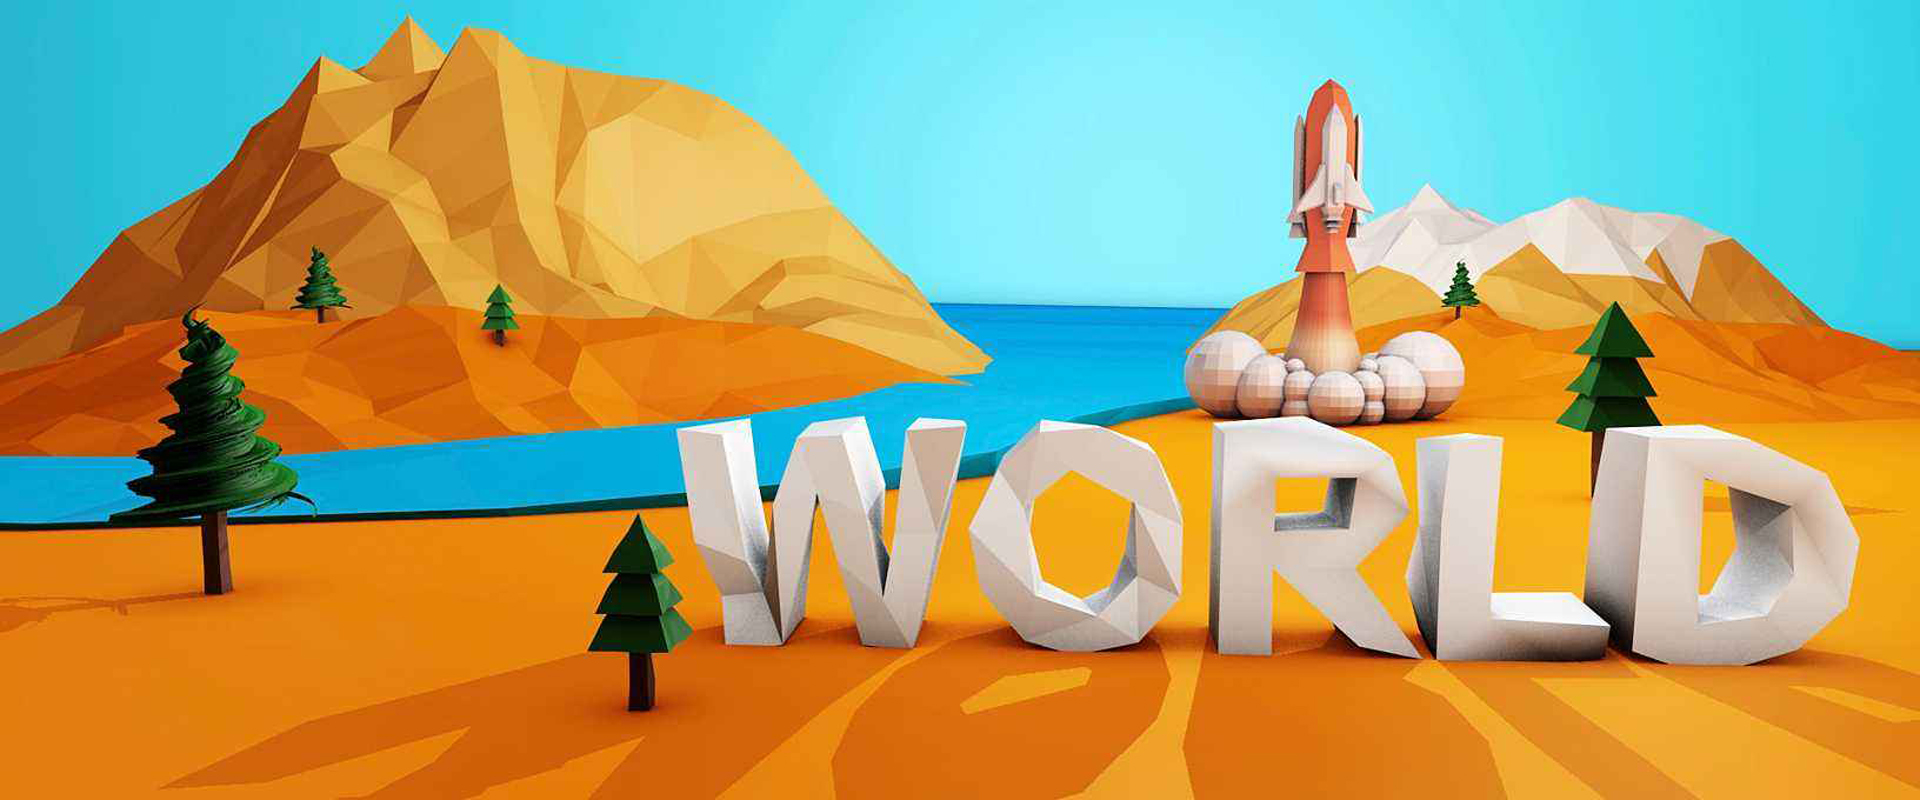
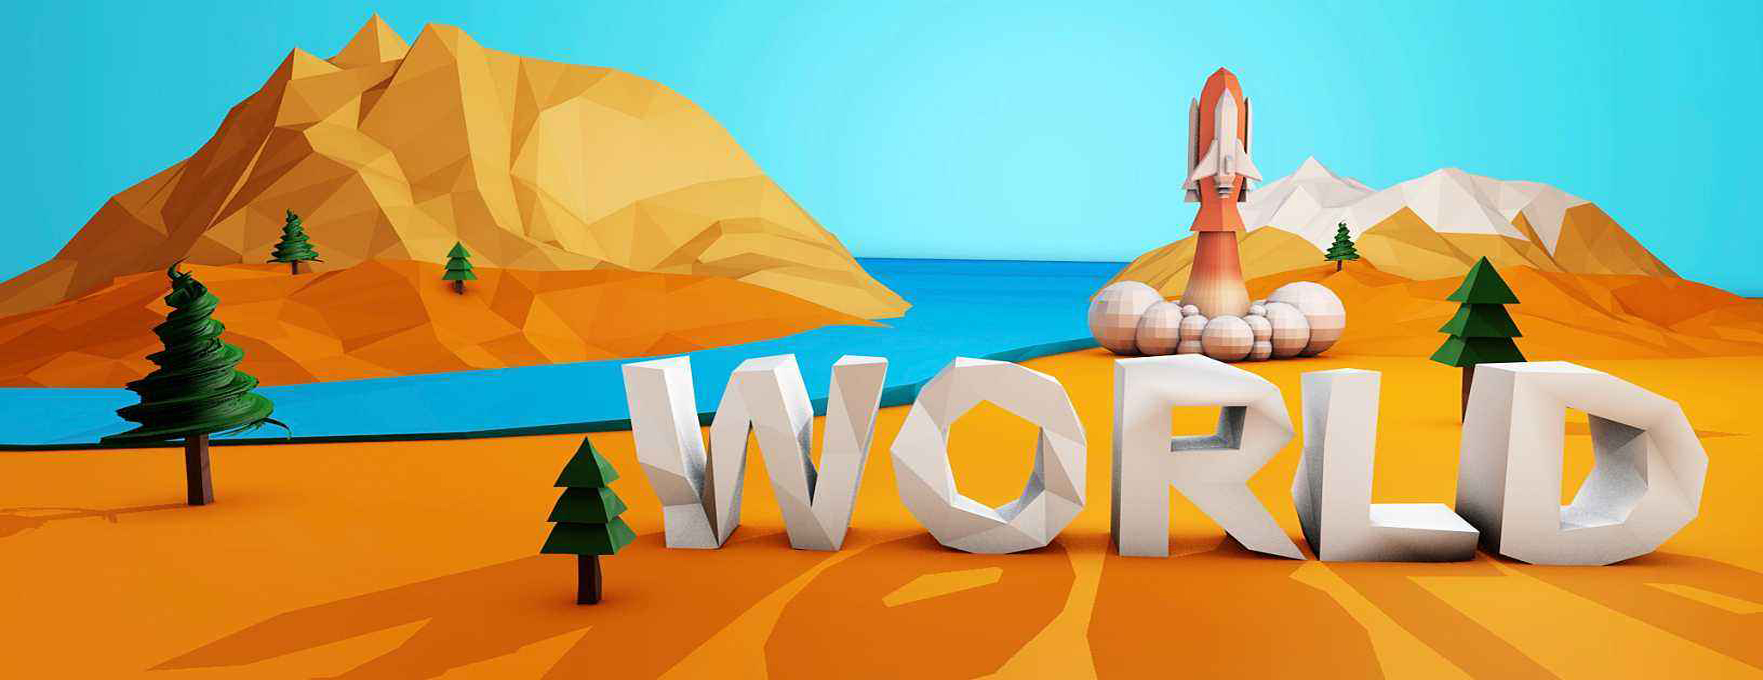
update home bg

diff --git a/css/home.css b/css/home.css
@@ -2,7 +2,7 @@
   width:100%;
   height:70vh;
   position: relative;
-  background:url('../images/page_background.jpg') no-repeat center 100%;
+  background:url('../images/page_background.jpg') no-repeat center 70%;
 }
 .author {
     background: #ecf0f1;
